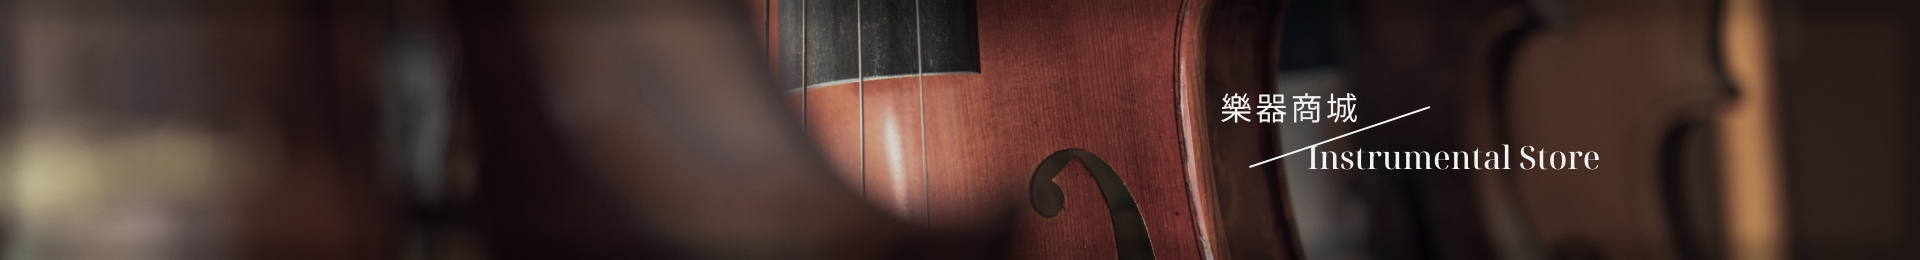
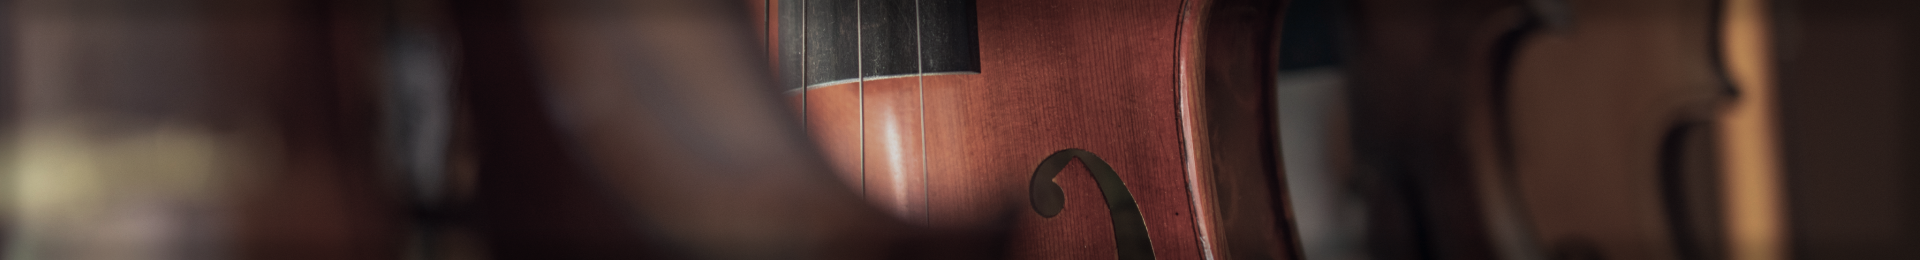
Products

Changed region(s): [[0.6562, 0.5538, 0.8438, 0.6769], [0.625, 0.3385, 0.75, 0.5538]]

diff --git a/src/pages/Products/ProductsList/FilterNav.js b/src/pages/Products/ProductsList/FilterNav.js
@@ -18,25 +18,92 @@ function FilterNav() {
           </li>
           <li className="breadcrumb-item">琴鍵樂器</li>
         </ul>
+        {/* 麵包屑 end */}
 
-        {/* 篩選 */}
-        <div className="filter-nav d-flex">
-          <div className="main-color me-3">
+        {/* 進階篩選 */}
+        <div className="filter-nav d-flex position-relative">
+          <button className="main-color me-4">
             進階篩選
             <img
               className="icon-img ms-1 mb-1"
               src={filterIcon}
               alt="filterIcon"
             ></img>
+          </button>
+          {/* 進階篩選區塊 */}
+          <div className="filter-menu position-absolute">
+            <div className="p-3">
+              <p>品牌</p>
+              <div className="form-check">
+                <input
+                  className="form-check-input"
+                  type="checkbox"
+                  defaultValue
+                />
+                <label className="form-check-label">所有品牌</label>
+              </div>
+              <div className="form-check">
+                <input
+                  className="form-check-input"
+                  type="checkbox"
+                  defaultValue
+                />
+                <label className="form-check-label">CASIO</label>
+              </div>
+              <div className="form-check">
+                <input
+                  className="form-check-input"
+                  type="checkbox"
+                  defaultValue
+                />
+                <label className="form-check-label">KORG</label>
+              </div>
+              <div className="form-check">
+                <input
+                  className="form-check-input"
+                  type="checkbox"
+                  defaultValue
+                />
+                <label className="form-check-label">ROLAND</label>
+              </div>
+              <div className="form-check">
+                <input
+                  className="form-check-input"
+                  type="checkbox"
+                  defaultValue
+                />
+                <label className="form-check-label">YAMAHA</label>
+              </div>
+              <p className="mt-3">顏色</p>
+              <div className="d-flex mt-2">
+                <div className="color-box no-color-box"></div>
+                <div className="color-box color"></div>
+              </div>
+              <p className="mt-3">價格</p>
+              <input className="form-range" type="range" max="100" min="0" />
+              <p>NT$0 ~ 190,000</p>
+              <button className="filter-btn mt-3 w-100">篩選</button>
+            </div>
           </div>
-          <div className="filter"></div>
-          <div className="main-color me-3">
+          {/* 進階篩選區塊 end */}
+
+          {/* 商品排序 */}
+          <button className="main-color me-4 position-relative">
             商品排序
             <img className="icon-img ms-1 mb-1" src={sort} alt="sort"></img>
+          </button>
+          <div className="sort-menu position-absolute">
+            <ul className="p-3">
+              <li>價格：低到高</li>
+              <li>價格：高到低</li>
+              <li>上架：新到舊</li>
+              <li>上架：舊到新</li>
+            </ul>
           </div>
-          <div>
+
+          <button className="me-4">
             <img className="icon-img ms-1 mb-1" src={search} alt="search"></img>
-          </div>
+          </button>
         </div>
       </div>
     </div>

diff --git a/src/pages/Products/ProductsList/index.js b/src/pages/Products/ProductsList/index.js
@@ -4,25 +4,66 @@ import CategoryNav from './CategoryNav';
 import ProductsItem from './ProductsItem';
 import FilterNav from './FilterNav';
 import banner from '../../../assets/ProductsImg/banner.png';
-import { Container } from 'react-bootstrap';
+import bannerTitle from '../../../assets/ProductsImg/icon/banner_title.svg';
 
 function index() {
   return (
     <>
-      <div className="banner-img">
+      <div className="banner-img position-relative">
+        <img
+          src={bannerTitle}
+          alt="bannerTitle"
+          className="banner-title position-absolute"
+        />
         <img src={banner} alt="banner" />
       </div>
-      <Container>
+      <div className="container">
         <FilterNav />
         <div className="row">
           <div className="col-2">
             <CategoryNav />
           </div>
-          <div className="col-10 row row-cols-sm-2 row-cols-md-4">
+          <div className="col-10 row row-cols-2 row-cols-md-4">
             <ProductsItem />
+            <ProductsItem />
+            <ProductsItem />
+            <ProductsItem />
+            <ProductsItem />
+            <ProductsItem />
+            <ProductsItem />
+            <ProductsItem />
+            <ProductsItem />
+            <ProductsItem />
+            <ProductsItem />
+            <ProductsItem />
+            <ProductsItem />
+            <ProductsItem />
+            <ProductsItem />
+            <ProductsItem />
+            <ProductsItem />
+            <ProductsItem />
+            <ProductsItem />
+            <ProductsItem />
+            <ProductsItem />
+            <ProductsItem />
+            <ProductsItem />
+            <ProductsItem />
+            {/* 頁碼 */}
+            <div className="d-flex justify-content-center align-items-center flex-fill">
+              <div className="page my-3">
+                <a href="/">&#x3C;</a>
+                <a className="page-active" href="/">
+                  1
+                </a>
+                <a href="/">2</a>
+                <a href="/">3</a>
+                <a href="/">4</a>
+                <a href="/">&#x3E;</a>
+              </div>
+            </div>
           </div>
         </div>
-      </Container>
+      </div>
     </>
   );
 }

diff --git a/src/pages/Products/ProductsList/CategoryNav.js b/src/pages/Products/ProductsList/CategoryNav.js
@@ -1,42 +1,56 @@
 import React from 'react';
-import { useState } from 'react';
 import './styles/categoryNav.scss';
 
 function CategoryNav() {
-  const [activeText, setActiveText] = useState('');
+  // const [activeText, setActiveText] = useState('');
+  const mainCategory = [
+    {
+      id: 1,
+      name: '琴鍵樂器',
+    },
+    {
+      id: 2,
+      name: '管樂器',
+    },
+  ];
   const category = [
     {
-      main: '琴鍵樂器',
-      sub: ['直立/平台鋼琴', '電子鋼琴', '數位鋼琴'],
+      ins_main: 1,
+      ins_sub: 1,
     },
     {
-      main: '管樂器',
-      sub: ['長笛', '短笛', '薩克斯風'],
+      ins_main: 1,
+      ins_sub: 2,
     },
     {
-      main: '吉他/烏克麗麗',
-      sub: ['木吉他', '電吉他', '貝斯', '烏克麗麗'],
+      ins_main: 1,
+      ins_sub: 3,
     },
     {
-      main: '打擊樂器',
-      sub: ['爵士鼓', '電子鼓', '木箱鼓'],
+      ins_main: 2,
+      ins_sub: 4,
     },
     {
-      main: '配件',
-      sub: ['琴鍵樂器', '管樂器', '弓弦樂器', '吉他', '打擊樂器'],
+      ins_main: 2,
+      ins_sub: 5,
+    },
+    {
+      ins_main: 2,
+      ins_sub: 6,
     },
   ];
 
   return (
+    // <ul className="category-navbar">
+    //   <li className="product-main-category">最新商品</li>
+    //   {mainCategory.map((v) => {
+    //     let dataItem = category.filter((item) => {
+    //       return item.ins_main === v.id;
+    //     });
+    //     return dataItem;
+    //   })}
+    // </ul>
     <ul className="category-navbar">
-      {/* {category.map(v,i)=>{
-      <li
-        key={Math.random().toString(36).replace('0.', '')}
-        onClick={() => {
-          setActiveText(v);
-        }}
-      ></li>
-    }} */}
       <li className="product-main-category">最新商品</li>
       <li className="product-main-category product-main-category-active">
         琴鍵樂器

diff --git a/src/pages/Products/ProductsList/styles/filterNav.scss b/src/pages/Products/ProductsList/styles/filterNav.scss
@@ -5,10 +5,69 @@
   color: $main;
 }
 
-.filter-nav {
-  cursor: pointer;
-}
 
 .icon-img {
   width: 1.5rem;
 }
+
+.filter-menu {
+  background: $main-light;
+  width: 180px;
+  top: 43px;
+  z-index: 3;
+  color: $accent-light;
+}
+  
+button {
+  border: none;
+}
+
+.form-check {
+  margin: 5px 0;
+}
+
+.no-color-box {
+  background:
+  linear-gradient(-45deg, transparent 44%, $main-gary-light 44%, $main-gary-light 50%, transparent 50%);
+  background-color: #fff;
+}
+
+.color-box {
+  width: 20px;
+  height: 20px;
+  margin: 0 5px;
+  cursor: pointer;
+}
+
+.color-box:active{
+  outline: 3px solid $main-gary-light;
+}
+
+
+.color {
+  background-color: rgb(78, 42, 42);
+}
+
+.filter-btn {
+ background: $main-gary-light;
+ color: $main;
+ padding: 5px;
+ letter-spacing: 0.1rem;
+}
+
+.sort-menu {
+  background: $main-light;
+  // width: 180px;
+  left: 110px;
+  top: 43px;
+  z-index: 3;
+  color: $accent-light;
+}
+
+.sort-menu > ul {
+  line-height: 1.5rem;
+  padding: 0;
+  margin-bottom: 0 !important;
+}
+
+// .sort-menu > ul:hover

diff --git a/src/pages/Products/ProductsList/styles/productsItem.scss b/src/pages/Products/ProductsList/styles/productsItem.scss
@@ -11,8 +11,8 @@
 }
 
 .favorite-icon {
-  width: 1.5rem;
-  height: 1.5rem;
+  width: 1.8rem;
+  height: 1.8rem;
 }
 
 .product-img {
@@ -28,7 +28,9 @@
 }
 
 .product{
-  height: 350px;
+  height: 300px;
+  padding: 0;
+  margin: 5px 0;
 }
 
 .product:hover .img-mask{
@@ -83,3 +85,4 @@
 .compare:hover {
   background: lighten($main-light,10%);
 }
+

diff --git a/src/pages/Products/ProductsList/ProductsItem.js b/src/pages/Products/ProductsList/ProductsItem.js
@@ -7,7 +7,7 @@ import favoriteDefault from '../../../assets/ProductsImg/icon/favorite_default.s
 
 function ProductsItem() {
   return (
-    <div className="col product p-3">
+    <div className="col product">
       <div className="position-relative">
         {/* 商品照片 */}
         <div className="product-img ">

diff --git a/src/pages/Products/ProductsList/styles/index.scss b/src/pages/Products/ProductsList/styles/index.scss
@@ -4,11 +4,25 @@
   color: $main;
 }
 
-.banner-img{
+.banner-img {
   height: 260px;
   overflow: hidden;
 }
 
+.page > a {
+  color: $main-light;
+  font-size: 1.2rem;
+  margin: 0 5px;
+}
+
+a.page-active {
+  color: $main;
+}
+
+.banner-title {
+  top: 80px;
+  right: 350px;
+}
 
 
 
